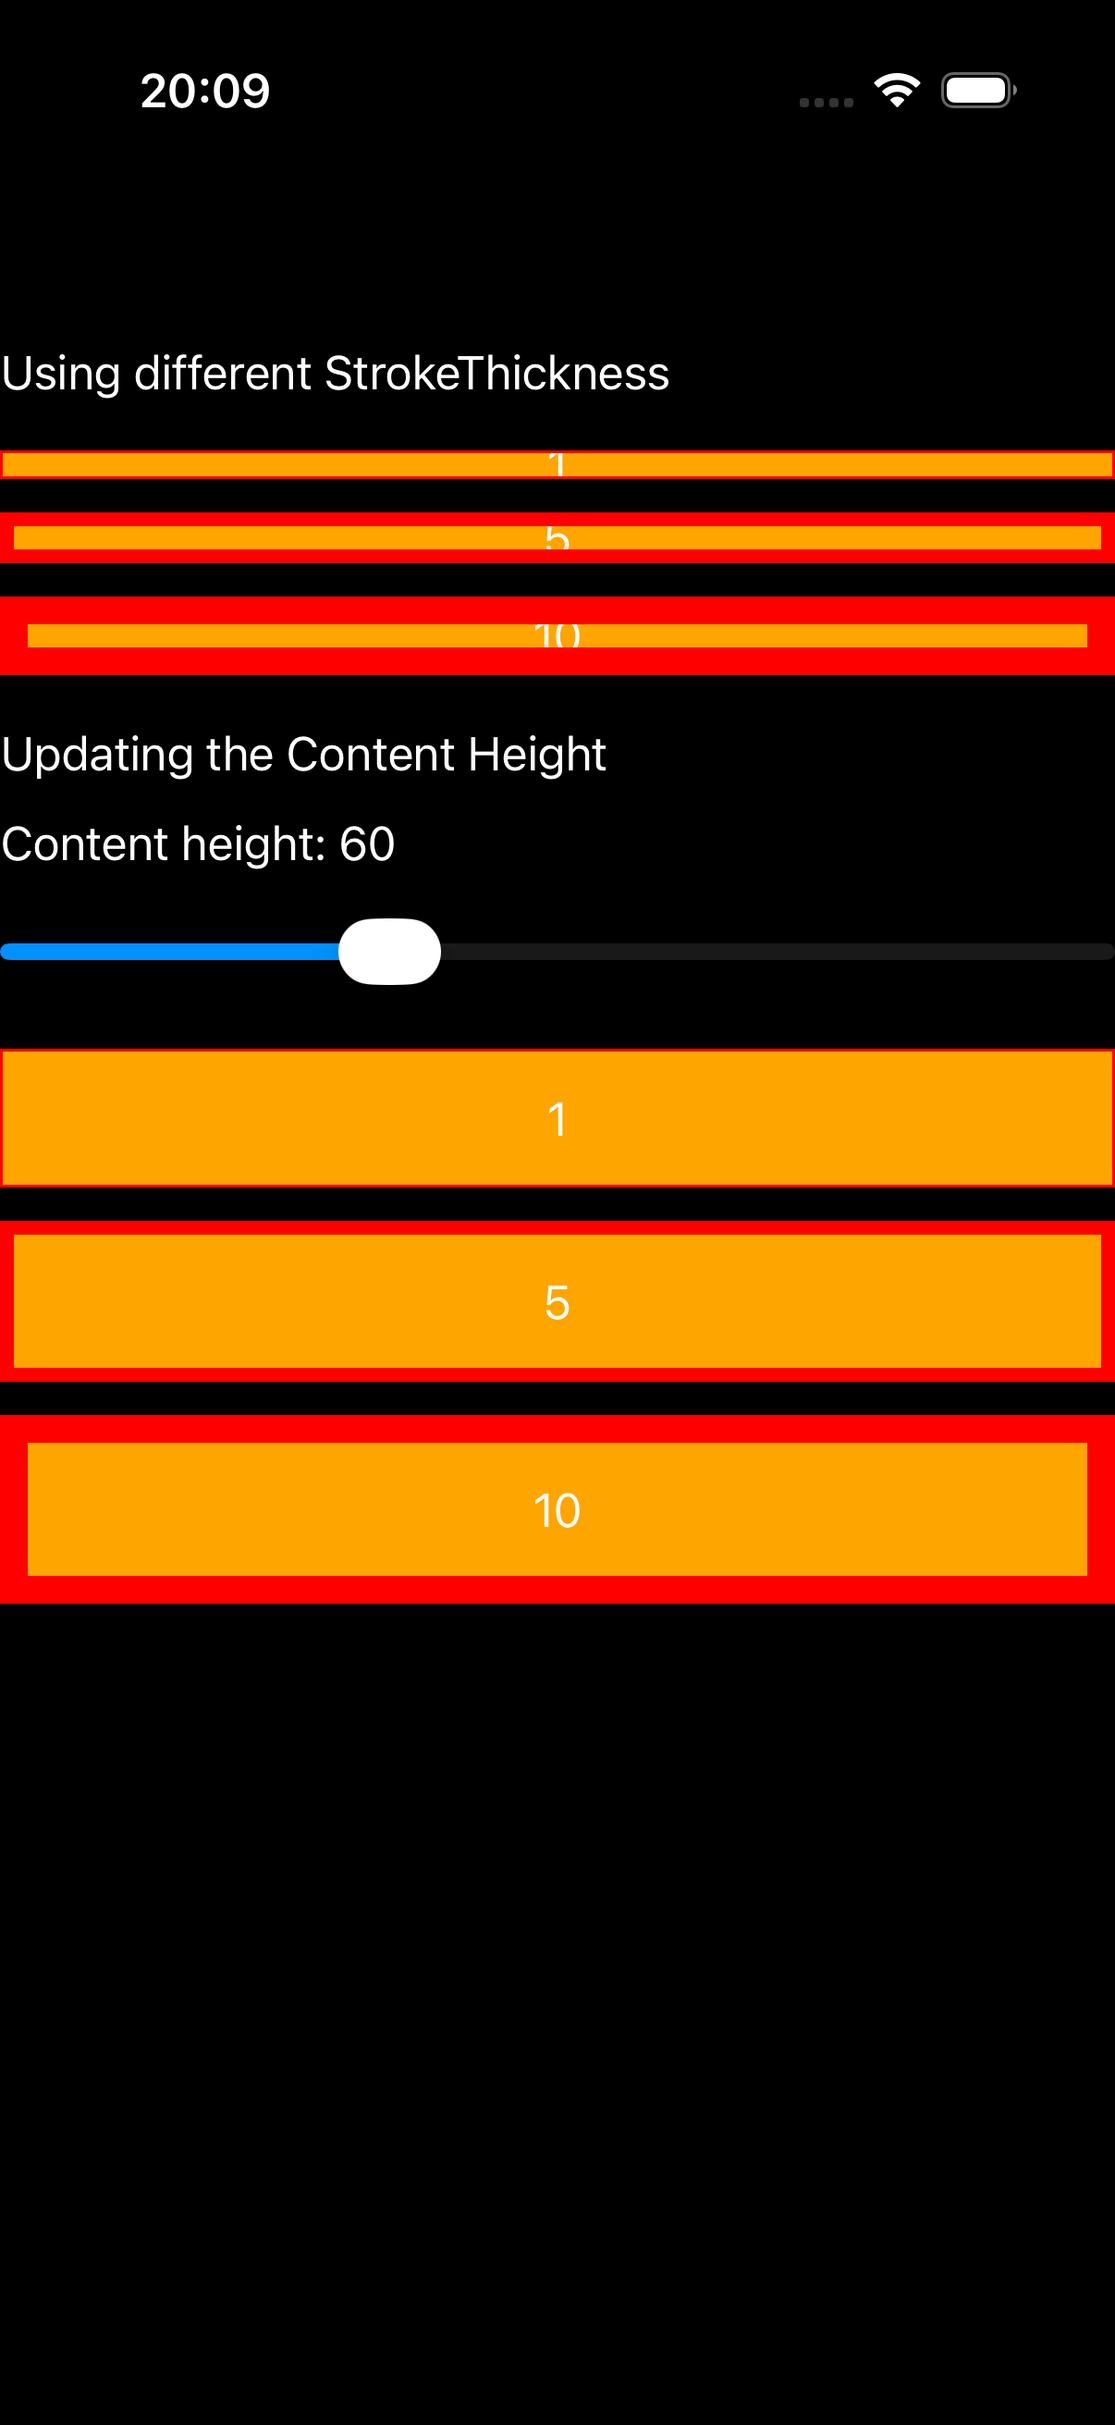
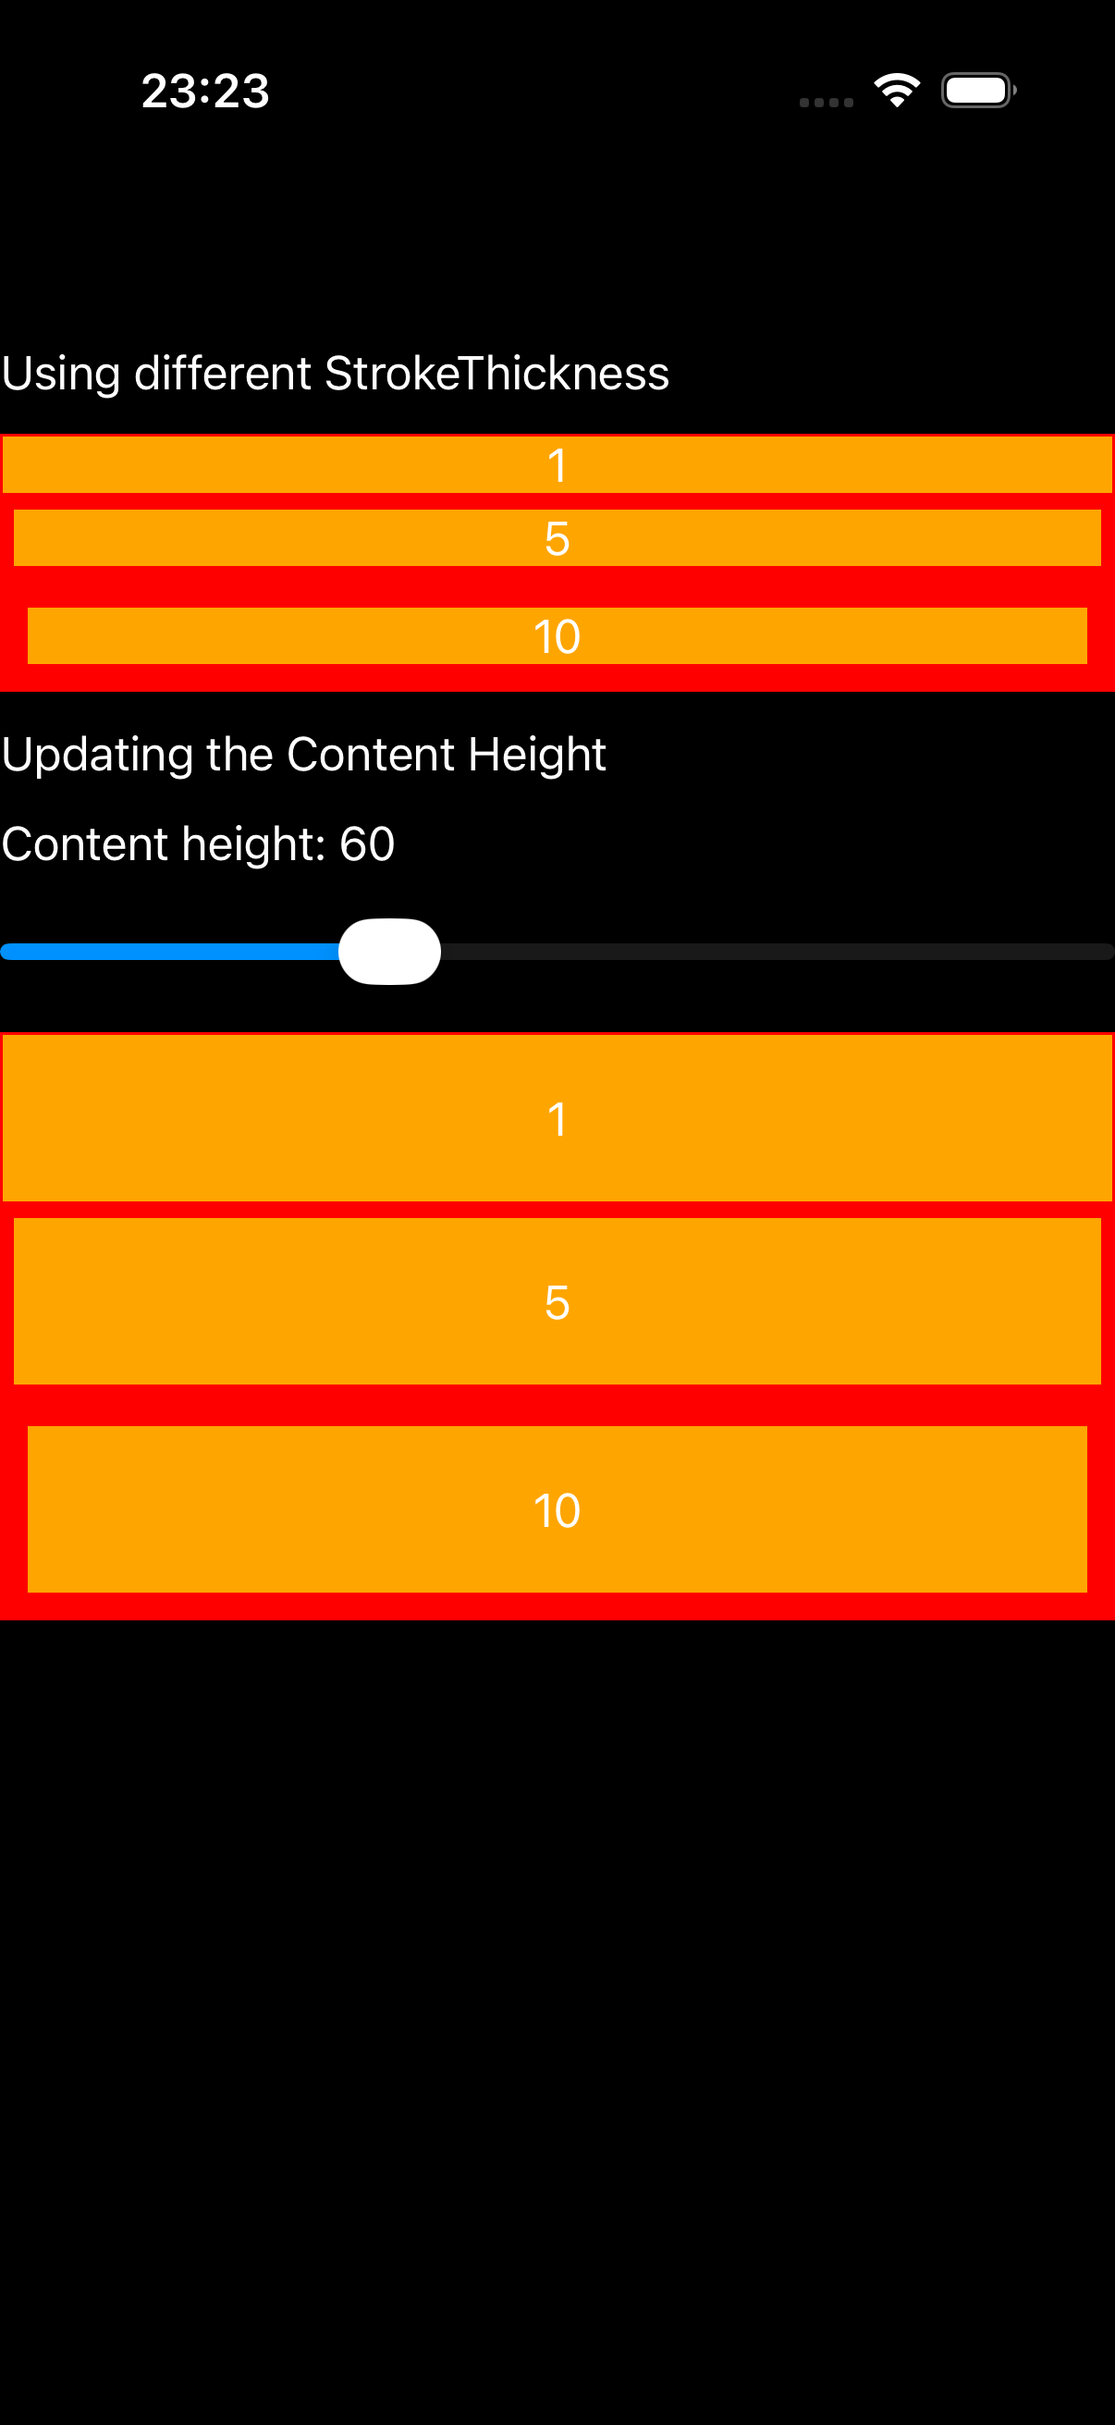
fix(samples,parity): revert border_stroke per-box margin (overfit to old-master MAUI)
The prior set_margin(0,6) matched the OLD unstable MAUI render of the CoreGallery
<Style Margin=0,6>; the stable 10.0.71 maui-compare BorderStrokePage.cs has NO
per-Border margin, so the boxes now sit tight on the grid rows like MAUI. Re-captured
+ re-analyzed (Sonnet major->minor). Sample-only change; iOS gallery built clean.

diff --git a/port/cpp/src/samples/pages/border_stroke_page.hpp b/port/cpp/src/samples/pages/border_stroke_page.hpp
@@ -228,9 +228,10 @@ namespace maui::samples
             outline.set_stroke_shape(std::make_shared<maui::graphics::shapes::rectangle>());
             outline.set_stroke(std::make_shared<maui::graphics::solid_paint>(maui::graphics::colors::red));
             outline.set_stroke_thickness(thickness);
-            // BorderStroke.xaml's <Style TargetType="Border"> sets Margin="0,6" on every Border, giving the
-            // rows vertical spacing; the port had omitted it so the boxes touched. (left/right 0, top/bottom 6)
-            outline.set_margin(maui::core::thickness{0.0, 6.0});
+            // NO per-Border margin: the maui-compare oracle (BorderStrokePage.cs) creates each Border with
+            // no Margin (only the outer stack has Margin=12/Spacing=12). A prior `set_margin(0,6)` was
+            // overfit to the old-master MAUI render of the CoreGallery <Style Margin="0,6">; the stable
+            // 10.0.71 baseline doesn't reproduce it, so the boxes sit on the grid rows with no extra gap.
             outline.set_content(text);
             grid.add(outline);
             grid.set_row(outline, row);

diff --git a/port/cpp/docs/comparison/README.md b/port/cpp/docs/comparison/README.md
@@ -22,18 +22,18 @@ Single source of truth for iOS pixel parity. Each example is rendered by BOTH th
 | --- | --- | --- |
 | 🟢 Pixel-perfect | 12 | activity_indicator, grid, relative_layout, alignment, polyline_gallery, shape_app_theme, empty_view_load_simulate, swipe_item_position, pan_gesture_events, menu_bar, chrome, custom_layout |
 | 🟢 Match | 4 | single_bound_selection, custom_size_swipe, ios_pan_gesture, modal |
-| 🟡 C++ minor | 126 | label, entry, editor, search_bar, picker, date_picker, pickers, stepper, check_box, progress_bar, indicator, image, box_view, content_view, containers, controls_stack, input_controls, fonts, formatted_text, styles, triggers, behaviors, semantics, app_theme_binding … (+102) |
-| 🔴 C++ major | 29 | button, time_picker, slider, switch, image_button, layout_is_enabled, path_transform_string, border_stroke, border_playground, border_clip_playground, clip, clip_views, clip_gallery, invalidate_shadow_host, collectionview, preselected_items, header_footer_grid, header_footer_grid_horizontal, header_footer_template, header_footer_view, nested_collection, cv_visual_states, items_updating_scroll_mode, radio_button_content … (+5) |
+| 🟡 C++ minor | 127 | label, entry, editor, search_bar, picker, date_picker, pickers, stepper, check_box, progress_bar, indicator, image, box_view, content_view, containers, controls_stack, input_controls, fonts, formatted_text, styles, triggers, behaviors, semantics, app_theme_binding … (+103) |
+| 🔴 C++ major | 28 | button, time_picker, slider, switch, image_button, layout_is_enabled, path_transform_string, border_playground, border_clip_playground, clip, clip_views, clip_gallery, invalidate_shadow_host, collectionview, preselected_items, header_footer_grid, header_footer_grid_horizontal, header_footer_template, header_footer_view, nested_collection, cv_visual_states, items_updating_scroll_mode, radio_button_content, swipe_threshold … (+4) |
 | ◻ MAUI blank | 1 | radio_template_from_style |
 
-**Per-model distribution** (independent; family agreement ≈ 42%):
+**Per-model distribution** (independent; family agreement ≈ 41%):
 
 | Category | Sonnet `claude-sonnet-4-6` | Gemini `gemini-2.5-flash` |
 | --- | --- | --- |
 | 🟢 Pixel-perfect | 0 | 2 |
 | 🟢 Match | 54 | 21 |
-| 🟡 C++ minor | 85 | 58 |
-| 🔴 C++ major | 30 | 91 |
+| 🟡 C++ minor | 86 | 58 |
+| 🔴 C++ major | 29 | 91 |
 | 🟠 MAUI minor | 1 | 0 |
 | 🟣 MAUI major | 1 | 0 |
 | ◻ MAUI blank | 1 | 0 |
@@ -101,7 +101,7 @@ Single source of truth for iOS pixel parity. Each example is rendered by BOTH th
 | 57 | **Invalidate Brush** | <table><tr><td align="center">MAUI light<br><img src="captures/maui_light/invalidate_brush.png" height="350"></td><td align="center">C++ light<br><img src="captures/cpp_light/invalidate_brush.png" height="350"></td></tr><tr><td align="center">MAUI dark<br><img src="captures/maui_dark/invalidate_brush.png" height="350"></td><td align="center">C++ dark<br><img src="captures/cpp_dark/invalidate_brush.png" height="350"></td></tr></table> | ports InvalidateBrushGallery.xaml A code-first port of the MAUI Shapes sub-gallery Pages/Controls/ShapesGalleries/InvalidateBrushGallery.xaml (&quot;Invalidate Brushes Playground&quot;): a VerticalStackLayout (Padding 12) with — - a &quot;Change color&quot; Bu | **🟢 Match**<br><sub>claude-sonnet-4-6</sub><br>• Both show &#x27;Change color&#x27; green button and &#x27;Brush color: Green&#x27; label with a green horizontal line<br>• Button chrome: C++ shows a more prominent green filled button with border; MAUI shows a subtler green-outlined button — minor native default rendering difference<br>• Green underline/separator and label text match exactly in both themes<br>• Diff 1.6% is very low; only difference is button chrome style which is a native default rendering variation | **🟡 C++ minor**<br><sub>gemini-3.1-flash-lite</sub><br>• The green horizontal line under the button is slightly thicker in the C++ implementation compared to the MAUI reference.<br>• The vertical spacing between the button and the text &#x27;Brush color: Green&#x27; is slightly larger in the C++ implementation. |
 | 58 | **Gradient brushes** | <table><tr><td align="center">MAUI light<br><img src="captures/maui_light/gradient.png" height="350"></td><td align="center">C++ light<br><img src="captures/cpp_light/gradient.png" height="350"></td></tr><tr><td align="center">MAUI dark<br><img src="captures/maui_dark/gradient.png" height="350"></td><td align="center">C++ dark<br><img src="captures/cpp_dark/gradient.png" height="350"></td></tr></table> | a faithful reproduction of the maui-compare &quot;gradient&quot; demo (ComparePages.Gradient()), the shipped-.NET-MAUI reference for the visual-parity comparison: a VerticalStackLayout (Spacing 12, Padding 16) of two captioned 60px BoxViews — a Linea | **🟡 C++ minor**<br><sub>claude-sonnet-4-6</sub><br>• LinearGradientBrush (yellow-&gt;green): both sides render correctly with the same yellow-to-green horizontal gradient; visually nearly identical<br>• RadialGradientBrush (red-&gt;navy): both sides render a radial gradient from red center to navy/purple edges; C++ gradient appears slightly more saturated/different purple endpoint vs MAUI&#x27;s slightly different hue<br>• Diff bbox is limited to y=241–824 covering just the two gradient bars — confirms only the gradient rendering area differs, not surrounding layout<br>• Dark mode matches light mode closely; diff_pct 7.27% likely due to slight color rendering differences in the radial gradient endpoints | **🟡 C++ minor**<br><sub>gemini-3.1-flash-lite</sub><br>• The RadialGradientBrush in the C++ implementation has a slightly different color distribution compared to the MAUI reference.<br>• The height of the gradient boxes in the C++ implementation is slightly smaller than in the MAUI reference. |
 | 59 | **Border** | <table><tr><td align="center">MAUI light<br><img src="captures/maui_light/border.png" height="350"></td><td align="center">C++ light<br><img src="captures/cpp_light/border.png" height="350"></td></tr><tr><td align="center">MAUI dark<br><img src="captures/maui_dark/border.png" height="350"></td><td align="center">C++ dark<br><img src="captures/cpp_dark/border.png" height="350"></td></tr></table> | a faithful reproduction of the maui-compare &quot;border&quot; demo (ComparePages.BorderPage()), the shipped-.NET-MAUI reference for the visual-parity comparison: a single Border centered on the page — red 5pt stroke, a RoundRectangle StrokeShape (Co | **🟡 C++ minor**<br><sub>claude-sonnet-4-6</sub><br>• C++ border box is wider/taller than MAUI&#x27;s (takes more horizontal space)<br>• &#x27;Bordered content&#x27; text is positioned differently inside the box (MAUI more vertically centered, C++ slightly higher)<br>• Border stroke, corner radius, and cream background color all match correctly<br>• Dark mode shows the same size discrepancy — C++ box is larger | **🟡 C++ minor**<br><sub>gemini-3.1-flash-lite</sub><br>• The text &#x27;Bordered content&#x27; in the C++ implementation appears slightly bolder or has different font rendering compared to the MAUI reference.<br>• The red border stroke width is slightly thicker in the C++ implementation than in the MAUI reference.<br>• The corner radius of the container appears slightly different between the two implementations. |
-| 60 | **Border Stroke** | <table><tr><td align="center">MAUI light<br><img src="captures/maui_light/border_stroke.png" height="350"></td><td align="center">C++ light<br><img src="captures/cpp_light/border_stroke.png" height="350"></td></tr><tr><td align="center">MAUI dark<br><img src="captures/maui_dark/border_stroke.png" height="350"></td><td align="center">C++ dark<br><img src="captures/cpp_dark/border_stroke.png" height="350"></td></tr></table> | ports BorderStroke.xaml (+ BorderStroke.xaml.cs) A self-contained, code-first demo of Border StrokeThickness and how a Border tracks the height of its content | **🔴 C++ major**<br><sub>claude-sonnet-4-6</sub><br>• Top section &#x27;Using different StrokeThickness&#x27;: MAUI renders each border with visible stroke inside its bounds; C++ renders borders that are clipped/overflowing — the thick borders (5, 10) are cut at the screen edge and appear excessively wide<br>• MAUI border items have proper horizontal margins/padding keeping them within screen bounds; C++ borders extend full-width and the thick stroke bleeds to the edge<br>• Bottom section &#x27;Updating the Content Height&#x27;: MAUI shows correct 3 bordered boxes with strokes properly sized; C++ shows the same but with significantly larger vertical spacing and the stroke-5 and stroke-10 borders lack visible left/right insets<br>• Dark mode: same issues persist — thick strokes overflow viewport edges in C++ vs properly contained in MAUI | **🔴 C++ major**<br><sub>gemini-3.1-flash-lite</sub><br>• The border thickness implementation is inconsistent; the C++ version renders borders significantly thinner than the MAUI reference.<br>• The layout of the &#x27;Using different StrokeThickness&#x27; section is incorrect in the C++ version, with elements appearing as thin lines rather than boxes.<br>• The vertical spacing and alignment of the boxes in the C++ version do not match the MAUI reference.<br>• The slider track and thumb styling differ significantly between the C++ implementation and the MAUI reference. |
+| 60 | **Border Stroke** | <table><tr><td align="center">MAUI light<br><img src="captures/maui_light/border_stroke.png" height="350"></td><td align="center">C++ light<br><img src="captures/cpp_light/border_stroke.png" height="350"></td></tr><tr><td align="center">MAUI dark<br><img src="captures/maui_dark/border_stroke.png" height="350"></td><td align="center">C++ dark<br><img src="captures/cpp_dark/border_stroke.png" height="350"></td></tr></table> | ports BorderStroke.xaml (+ BorderStroke.xaml.cs) A self-contained, code-first demo of Border StrokeThickness and how a Border tracks the height of its content | **🟡 C++ minor**<br><sub>claude-sonnet-4-6</sub><br>• C++ boxes extend full width edge-to-edge while MAUI boxes have a small left/right page margin — consistent with the known harness inset difference, not a port bug<br>• Stroke thickness progression (1/5/10) and red stroke color render correctly in both themes<br>• Orange fill color and label text match MAUI in both light and dark modes<br>• Slider and &#x27;Content height: 60&#x27; label present and functionally equivalent; slider thumb position matches | **🔴 C++ major**<br><sub>gemini-3.1-flash-lite</sub><br>• The border stroke thickness is not being applied correctly in the C++ implementation.<br>• The C++ implementation fails to render the red border around the boxes, which is present in the MAUI reference.<br>• The spacing and layout of the boxes differ significantly between the two implementations. |
 | 61 | **Border Layout** | <table><tr><td align="center">MAUI light<br><img src="captures/maui_light/border_layout.png" height="350"></td><td align="center">C++ light<br><img src="captures/cpp_light/border_layout.png" height="350"></td></tr><tr><td align="center">MAUI dark<br><img src="captures/maui_dark/border_layout.png" height="350"></td><td align="center">C++ dark<br><img src="captures/cpp_dark/border_layout.png" height="350"></td></tr></table> | ports BorderLayout.xaml (+ BorderLayout.xaml.cs) The C# page demonstrates driving Border.StrokeThickness from a Slider: a Slider (0..40, set to 5 in OnAppearing) is bound to the Border&#x27;s StrokeThickness; the Border (Silver stroke, White bac | **🟡 C++ minor**<br><sub>claude-sonnet-4-6</sub><br>• C++ border/colored-segment row shows slightly narrower left (red) segment relative to MAUI<br>• Slider thumb position and track proportions are nearly identical<br>• Label &#x27;Stroke thickness: 5 / 40&#x27; and colored bar layout match in both themes<br>• Both light and dark render the same structure; minor sizing differences in the segment widths | **🟡 C++ minor**<br><sub>gemini-3.1-flash-lite</sub><br>• The border stroke color in dark mode is slightly lighter/brighter in the C++ version compared to the MAUI version.<br>• The slider thumb in the C++ version appears slightly larger or has a different shadow/border rendering compared to the MAUI version.<br>• The text &#x27;Center&#x27; has slightly different font weight or anti-aliasing characteristics in the C++ implementation. |
 | 62 | **Border Playground** | <table><tr><td align="center">MAUI light<br><img src="captures/maui_light/border_playground.png" height="350"></td><td align="center">C++ light<br><img src="captures/cpp_light/border_playground.png" height="350"></td></tr><tr><td align="center">MAUI dark<br><img src="captures/maui_dark/border_playground.png" height="350"></td><td align="center">C++ dark<br><img src="captures/cpp_dark/border_playground.png" height="350"></td></tr></table> | ports BorderPlayground.xaml (+ BorderPlayground.xaml.cs) A self-contained, code-first interactive Border playground | **🔴 C++ major**<br><sub>claude-sonnet-4-6</sub><br>• C++ light only shows the top border with &#x27;Just a Label&#x27; and the first few property labels; the MAUI version shows many more controls including sliders, color swatches, and Border Dash/LineJoin settings.<br>• C++ is missing interactive controls below: the slider rows (Border Width, Dash Array, Dash Offset), and the full Border section with color swatches are absent or cut off.<br>• In MAUI light, the gradient-background border (teal-to-blue via #00B4D8→#008380) is visible with full content; C++ shows only the label inside a solid teal box without gradient fill.<br>• Dark mode shows the same truncation — C++ renders only the top portion of the playground controls, missing the lower property editor rows present in MAUI. | **🔴 C++ major**<br><sub>gemini-3.1-flash-lite</sub><br>• The border stroke is completely missing in the C++ implementation.<br>• The C++ implementation fails to render the border dash pattern and border width settings.<br>• The C++ implementation is missing the UI controls for Border Width, Border Dash Array, Border Dash Offset, and Border LineJoin.<br>• The C++ implementation is missing the &#x27;Show Content Background&#x27; toggle switch. |
 | 63 | **Border Clip Playground** | <table><tr><td align="center">MAUI light<br><img src="captures/maui_light/border_clip_playground.png" height="350"></td><td align="center">C++ light<br><img src="captures/cpp_light/border_clip_playground.png" height="350"></td></tr><tr><td align="center">MAUI dark<br><img src="captures/maui_dark/border_clip_playground.png" height="350"></td><td align="center">C++ dark<br><img src="captures/cpp_dark/border_clip_playground.png" height="350"></td></tr></table> | ports BorderClipPlayground.xaml (+ .xaml.cs) The C# page is an interactive Border-shape playground: a 100x100 Border (red stroke) clips an AspectFill Image (oasis.jpg) into the currently selected StrokeShape, while controls below mutate the | **🔴 C++ major**<br><sub>claude-sonnet-4-6</sub><br>• MAUI shows an empty rounded-rectangle border with red stroke (no fill content); C++ port shows the same border but filled with a dog photo — the border&#x27;s child Image is visible in C++ but absent/transparent in MAUI (MAUI may have failed to load the image here, but MAUI is the reference)<br>• C++ page layout is shifted right/down — the border shape and controls appear lower and the slider section is cut off at bottom vs MAUI which fits all sliders on screen<br>• In MAUI the border content area is white/empty (only the red stroke frame is shown); in C++ the image is rendered inside the clipped border, suggesting different content visibility behavior<br>• Both themes show the same discrepancy: image visible in C++ but not in MAUI&#x27;s border content area | **🔴 C++ major**<br><sub>gemini-3.1-flash-lite</sub><br>• The C++ implementation is missing the image content inside the border.<br>• The C++ implementation is missing the &#x27;Bottom Right Corner Radius&#x27; slider control entirely.<br>• The C++ implementation is missing the &#x27;Bottom Left Corner Radius&#x27; slider control entirely.<br>• The layout of the slider controls in the C++ version is inconsistent with the MAUI reference. |
